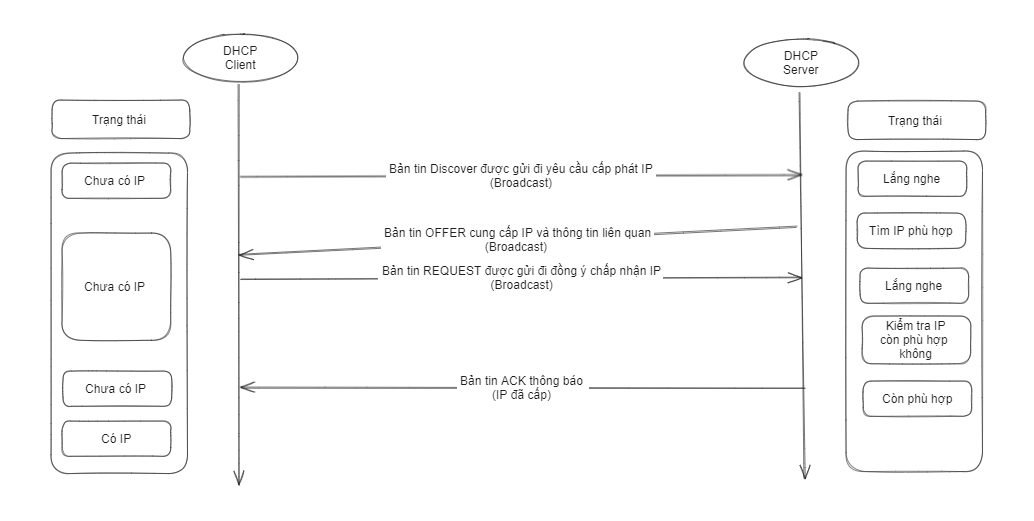
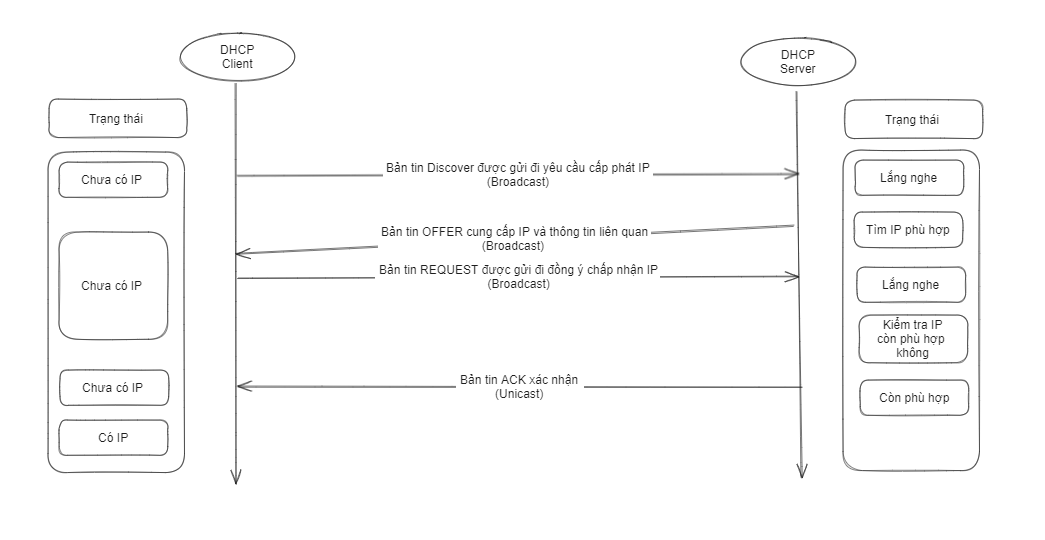
update

diff --git a/thuctap/linux/iptinh.md b/thuctap/linux/iptinh.md
@@ -1,11 +1,17 @@
 - [Cài đặt ip tĩnh trên ubuntu](#cài-đặt-ip-tĩnh-trên-ubuntu)
   - [Cấu hình bằng NETPLAN](#cấu-hình-bằng-netplan)
   - [Cấu hình bằng nmcli trong network manager](#cấu-hình-bằng-nmcli-trong-network-manager)
+  - [Xóa netplan và thay thế bằng ifupdown](#xóa-netplan-và-thay-thế-bằng-ifupdown)
+    - [cmd đặt ip cho ubuntu bằng ifupdown](#cmd-đặt-ip-cho-ubuntu-bằng-ifupdown)
   - [Đặt ip tĩnh centos 7](#đặt-ip-tĩnh-centos-7)
     - [sửa file cấu hình](#sửa-file-cấu-hình)
     - [sử dụng lênh nmcli](#sử-dụng-lênh-nmcli)
   - [Cấu hình ip động cho centos 7](#cấu-hình-ip-động-cho-centos-7)
   - [Trường hợp test thử các lỗi sai](#trường-hợp-test-thử-các-lỗi-sai)
+- [Tài liệu tham khảo](#tài-liệu-tham-khảo)
+## Lưu ý
+- Lưu ý: chỉ nên dùng nhất quán là sử file cấu hình hay sử dụng lệnh để cấu hình Ip tránh các trường hợp mâu thuẫn khi cùng lúc làm cả 2
+- Khi ta thực hiện sửa file cấu hình hoặc thực hiện các câu lệnh để cấu hình Ip thì cái nào dùng sau sẽ được ưu tiên hơn
 
 # Cài đặt ip tĩnh trên ubuntu
 - Show ip:`ip a`
@@ -80,6 +86,65 @@ nmcli con mod ens33 connection.autoconnect yes
 sudo ifdown ens33
 sudo ifup ens33
 ```
+## Xóa netplan và thay thế bằng ifupdown
+- Mặc định khi khởi động thì grub sẽ tìm ra netplan và coi như phần mềm mặc định để chạy ,ta cần chỉnh sửa file đó
+  ```
+  vi /etc/default/grub
+  ```
+- Ta chỉnh sửa dòng 11 thành như sau:
+  ```
+  GRUB_CMDLINE_LINUX = "netcfg/do_not_use_netplan = true"
+  ```
+  ![Alt](/thuctap/anh/Screenshot_647.png)
+
+- Tiến hành cập nhật lại grub
+  ```
+  update-grub
+  ```
+- Cài đặt ifupdown thay thế netplan
+  ```
+  apt update 
+  apt install -y ifupdown
+  ```
+- Tiến hành xóa netplan ra khỏi hệ thống
+  ```
+  apt --purge remove netplan.io
+  ```
+- Tiến hành xóa các file còn sót lại
+  ```
+  rm -rf /usr/share/netplan
+  rm -rf /etc/netplan
+  ```
+- Đến đây đã hoàn thành việc xóa netplan và thay thế bằng ifupdown ta chỉ cần reboot là ok 
+- Trước khi reboot ta có thể đặt dhcp cho card mạng ens33 để có IP
+  ```
+  vi /etc/network/interfaces
+  ```
+  - Thêm vào các dòng dưới đây
+  ```
+  auto lo
+  iface lo inet loopback
+
+  auto ens33
+  iface ens33 inet dhcp
+  ```
+  ![Alt](/thuctap/anh/Screenshot_648.png)
+
+- Tiến hành reboot ,kiểm tra IP và ping thử ra internet
+  ![Alt](/thuctap/anh/Screenshot_649.png)
+- Giờ ta có thể sử dụng `ifdown` và `ifup` để tắt bật card mạng
+  ![Alt](/thuctap/anh/Screenshot_650.png)
+### cmd đặt ip cho ubuntu bằng ifupdown
+- Đặt ip
+```
+sudo ip addr add [ip]/[prefix] dev ens33
+```
+- show card mạng
+  ```
+  ip addr show
+  ```
+- Bật tắt card mạng
+
 ## Đặt ip tĩnh centos 7
 ### sửa file cấu hình
 
@@ -171,3 +236,6 @@ service network restart
 - Khi ta sửa file cấu hình `ifcfg-ens33` của centos thành sai thì khi `service network restart` hay `systemctl restart network` thì file vẫn chạy bình thường 
   - nếu cấu hình sai cấu trúc ip thì nó sẽ coi như là card ens33 chưa có ip 
   - nếu cấu hình ip mà không cùng vnet thì ip vẫn sẽ được nhận và chỉ không thể ping ra ngoài internet thôi (Nesu ping được hãy xem lại default-gateway vì những ip nào không xác định sẽ được chuyển qua default-gateway .bạn có thể thay đổi nó thử xem)
+
+# Tài liệu tham khảo
+https://news.cloud365.vn/huong-dan-xoa-netplan-va-cai-dat-ifupdown-thay-the-tren-ubuntu-18-04/

diff --git a/thuctap/linuxapplication.md/04.dhcpserver.md b/thuctap/linuxapplication.md/04.dhcpserver.md
@@ -93,7 +93,7 @@
   - B3 :Client nhận được offer sẽ nhận bản đầu tiên mà nó nhận đc và nếu không nhận được sau 1 thời gian nó sẽ gửi lại `DISCOVERY`
   - B4 : Client sẽ gửi gói tin `REQUEST` dưới dạng broadcast để thông báo với server rằng nó nhận IP đó
   - B5 :Sau khi server nhận được gói tin nó sẽ kiểm tra xem IP này đã được sử dụng hay chưa
-  - B6: Nếu còn sử dụng được thì server sẽ gửi gói tin `PACK ` còn không thì server gửi gói tin `PNAK ` để bắt client quay lại B1
+  - B6: Nếu còn sử dụng được thì server sẽ gửi gói tin `PACK ` còn không thì server gửi gói tin `PNAK ` để bắt client quay lại B1 và bản tin sẽ được gửi dưới dạng unicast
 - Bắt gói tin bằng `tcpdump` và lưu lại file dưới dạng `pcap` và tiến hành phân tích ở `wireshark`
   ```
   tcpdump -i ens160 'port 67 or port 68' -w dhcp.pcap

diff --git a/thuctap/linuxapplication.md/02.ftp-sftp.md b/thuctap/linuxapplication.md/02.ftp-sftp.md
@@ -85,6 +85,8 @@
   sudo tailf var/log/messages
   ```
   ![Alt](/thuctap/anh/Screenshot_587.png)
+
+  
 # Tài liệu tham khảo
 https://www.youtube.com/watch?v=LBuILU5zeTQ
 
